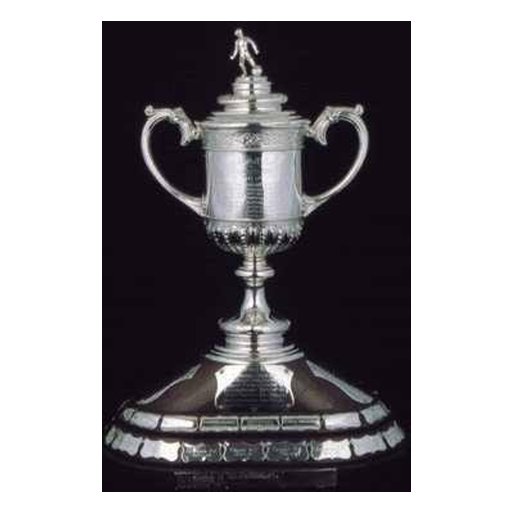
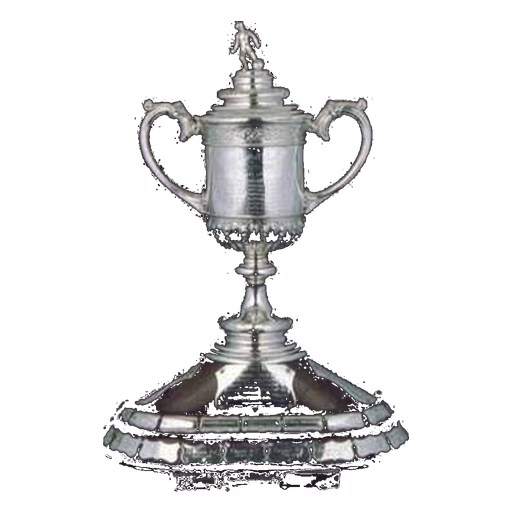
fix: escudos Rangers (86), Atlético (240) y trofeo escocés transparente
Corrige el ID de Sofifa del Rangers de Glasgow, añade Atlético Madrid al mapa de escudos y reprocesa scottish-premiership.png sin fondo negro.

diff --git a/src/lib/fc-data/club-ids.ts b/src/lib/fc-data/club-ids.ts
@@ -87,12 +87,13 @@ export const CLUB_NAME_TO_TEAM_ID: Record<string, number> = {
   Inter: 44,
   "FC Bayern München": 21,
   "FC Barcelona": 241,
+  "Atlético Madrid": 240,
   Palmeiras: 383,
   Flamengo: 1041,
   "River Plate": 1876,
   "Boca Juniors": 1877,
   "Colo-Colo": 110980,
-  Rangers: 100409,
+  Rangers: 86,
   "Olympique de Marseille": 181,
   Universitario: 111017,
   "LDU Quito": 110740,

diff --git a/scripts/fix-trophy-assets.ts b/scripts/fix-trophy-assets.ts
@@ -27,7 +27,8 @@ const CLUB_CREST: Record<string, string> = {
   "Olympique de Marseille": crest(181),
   "Sporting CP": crest(237),
   "Colo-Colo": crest(110980),
-  Rangers: crest(100409),
+  Rangers: crest(86),
+  "Atlético Madrid": crest(240),
   France: nationFlag("fr"),
   Argentina: nationFlag("ar"),
   Morocco: nationFlag("ma"),
